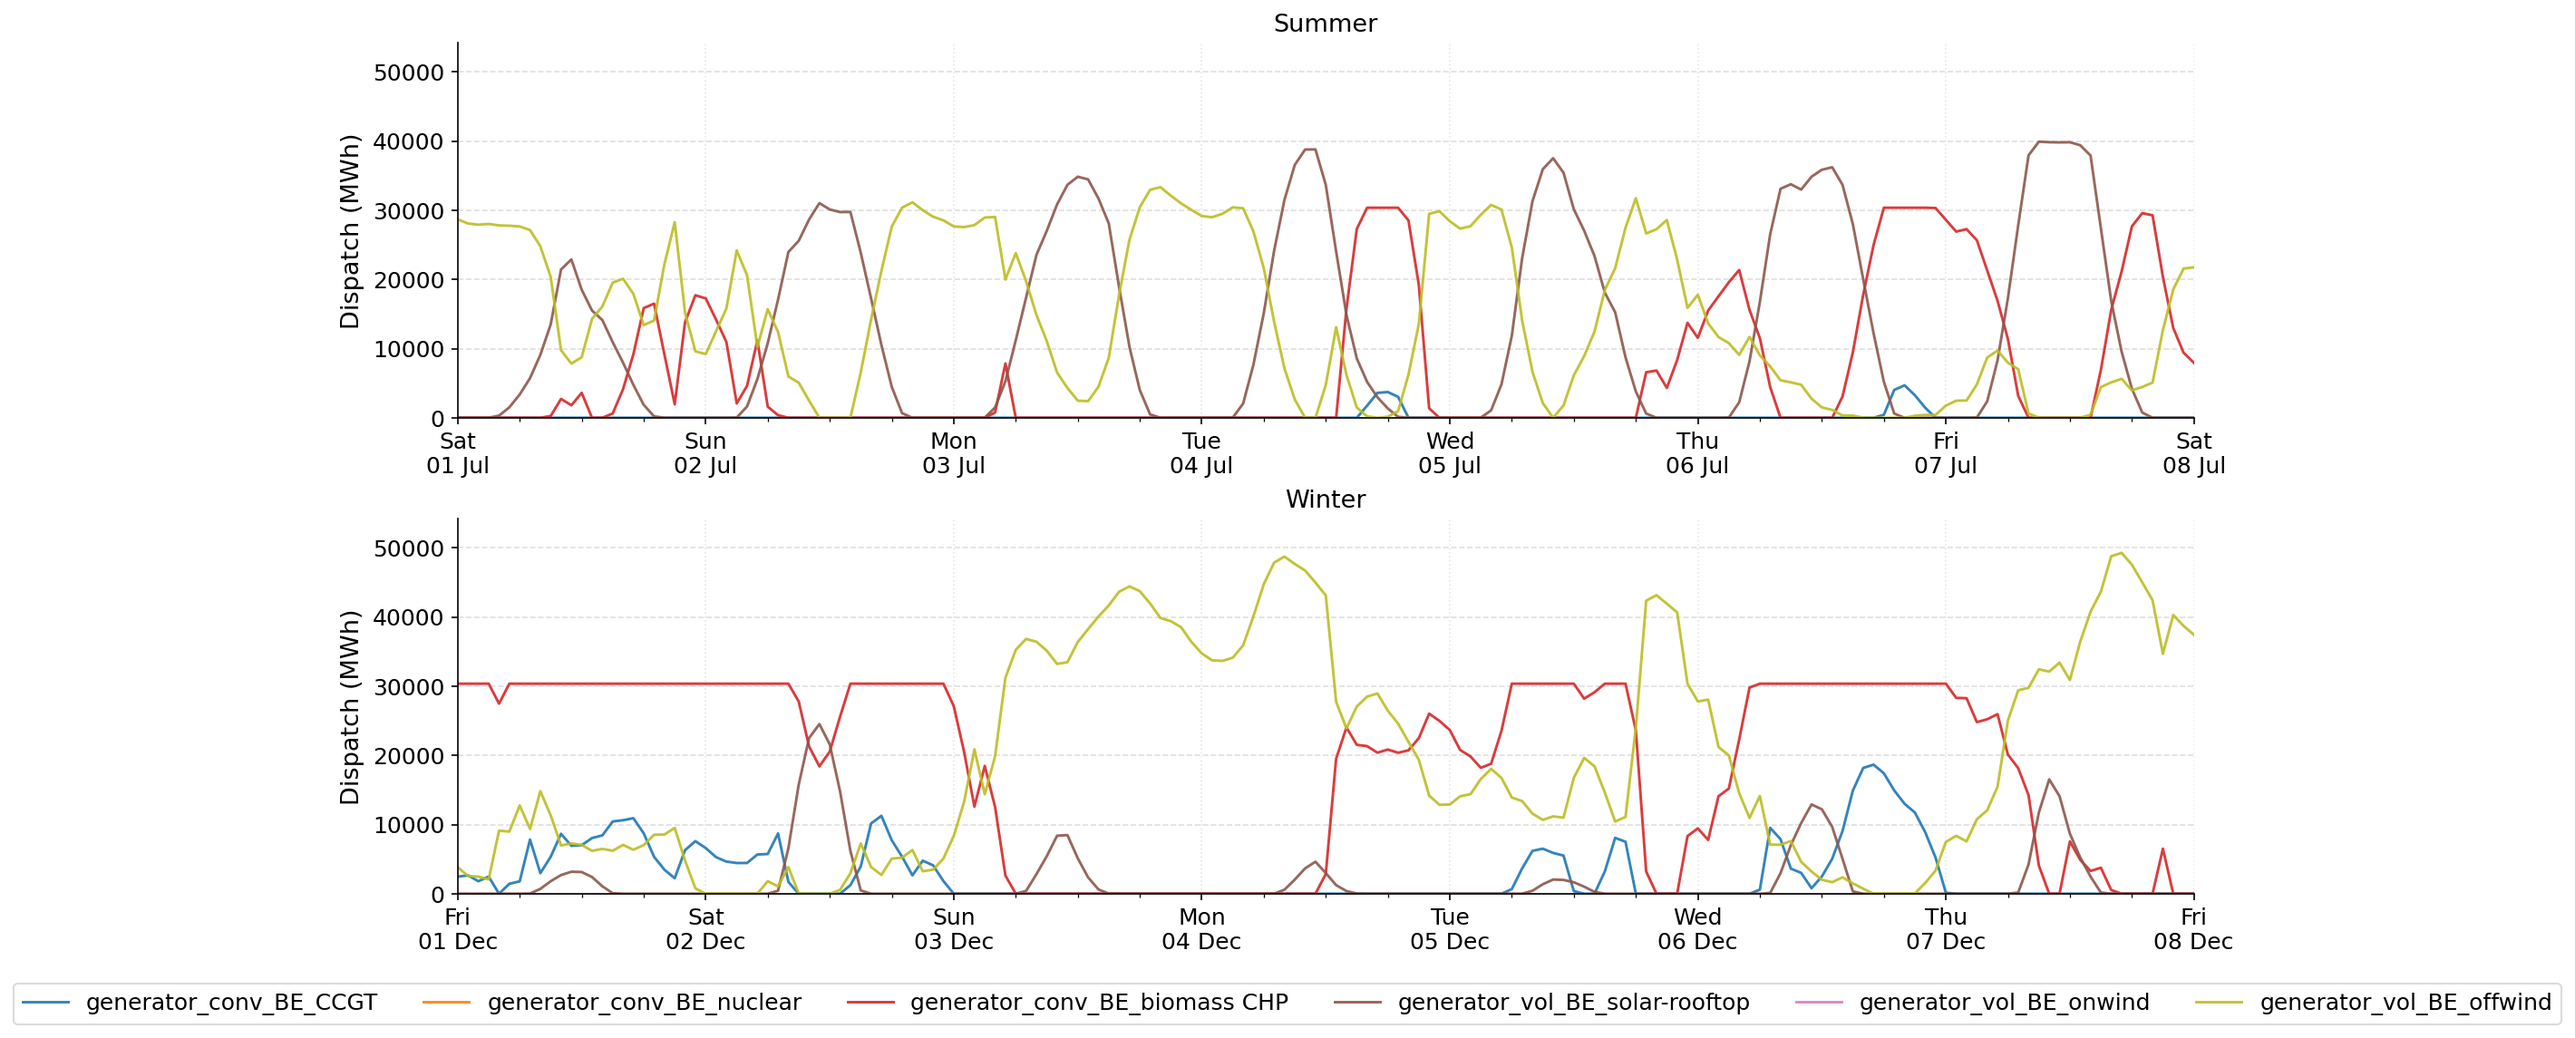
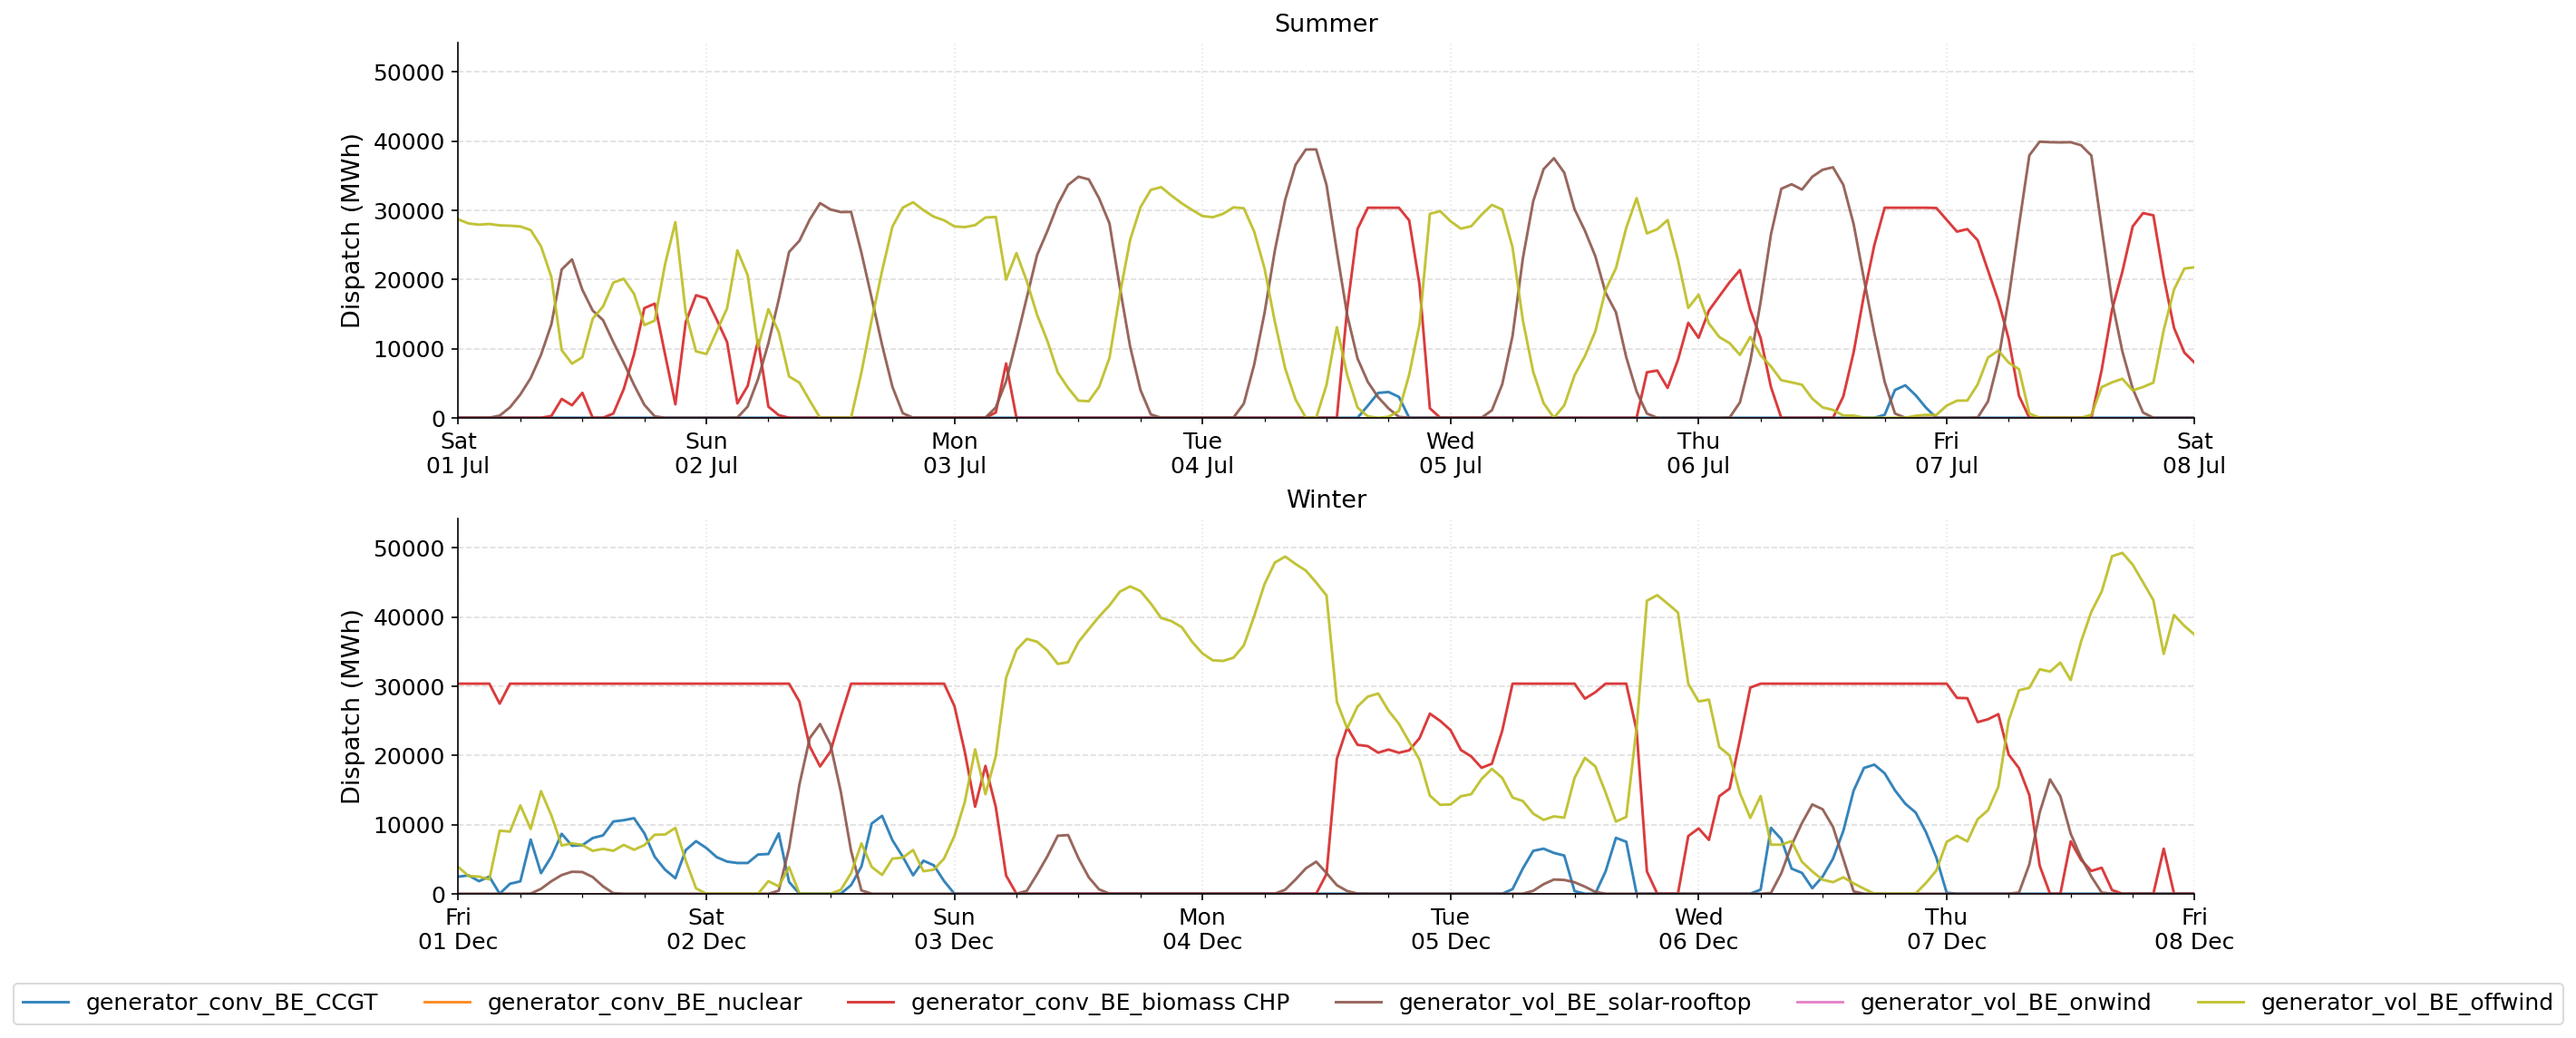
changed from submodule integration to file upload for technology costs (pls delete your technology_data folder completely)

diff --git a/main.py b/main.py
@@ -61,24 +61,24 @@ visualizer_a = Visualizer(network_a.network, scenario_name = 'a')
 visualizer_a.plot_dispatch_time_series(pd.Timestamp("2023-07-01"), pd.Timestamp("2023-12-01"))
 visualizer_a.plot_annual_electricity_mix()
 
-# TASK B
-input_data_b = InputHandler(CONFIG_B)
-networks = {}
-for year in CONFIG_B["years"]:
-    network_b = NetworkBuilder(CONFIG_B, input_data_b, year)
-    networks[year] = network_b
+# # TASK B
+# input_data_b = InputHandler(CONFIG_B)
+# networks = {}
+# for year in CONFIG_B["years"]:
+#     network_b = NetworkBuilder(CONFIG_B, input_data_b, year)
+#     networks[year] = network_b
 
-# TASK C
-input_data_c = InputHandler(CONFIG_C)
-network_c = NetworkBuilder(CONFIG_C, input_data_c, CONFIG_C["years"][0])
+# # TASK C
+# input_data_c = InputHandler(CONFIG_C)
+# network_c = NetworkBuilder(CONFIG_C, input_data_c, CONFIG_C["years"][0])
 
-# TASK D
-input_data_d = InputHandler(CONFIG_D)
-network_d = NetworkBuilder(CONFIG_D, input_data_d, CONFIG_D["years"][0])
+# # TASK D
+# input_data_d = InputHandler(CONFIG_D)
+# network_d = NetworkBuilder(CONFIG_D, input_data_d, CONFIG_D["years"][0])
 
-# TASK F
-input_data_f = InputHandler(CONFIG_F)
-network_f = NetworkBuilder(CONFIG_F, input_data_f, CONFIG_F["years"][0])
+# # TASK F
+# input_data_f = InputHandler(CONFIG_F)
+# network_f = NetworkBuilder(CONFIG_F, input_data_f, CONFIG_F["years"][0])
 
 # # TASK G
 # input_data_g = InputHandler(CONFIG_G)

diff --git a/src/input.py b/src/input.py
@@ -21,7 +21,7 @@ class InputHandler():
                 self.cf[(country, year)] = self._get_or_cache_capacity_factors_renewables(country, year, start, end)
 
 
-        self.technology_costs_all = pd.read_csv('technology-data/outputs/costs_2025.csv', index_col=[0, 1])
+        self.technology_costs_all = pd.read_csv('technology_costs/costs_2025.csv', index_col=[0, 1])
         self.technology_costs = {}
         all_technologies = []
         if self.config.get("technologies_storage"):
